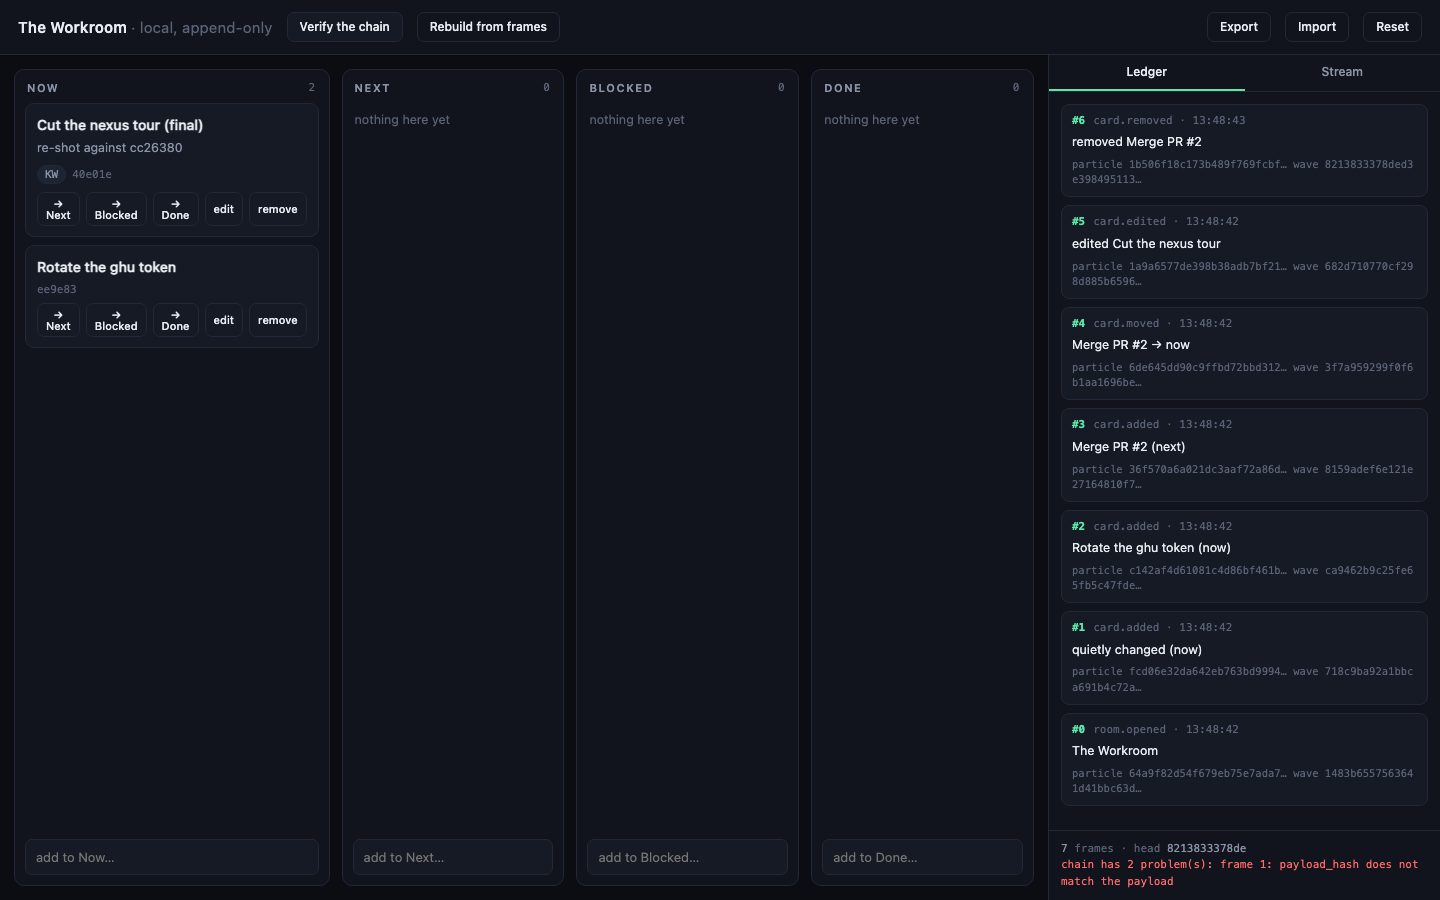
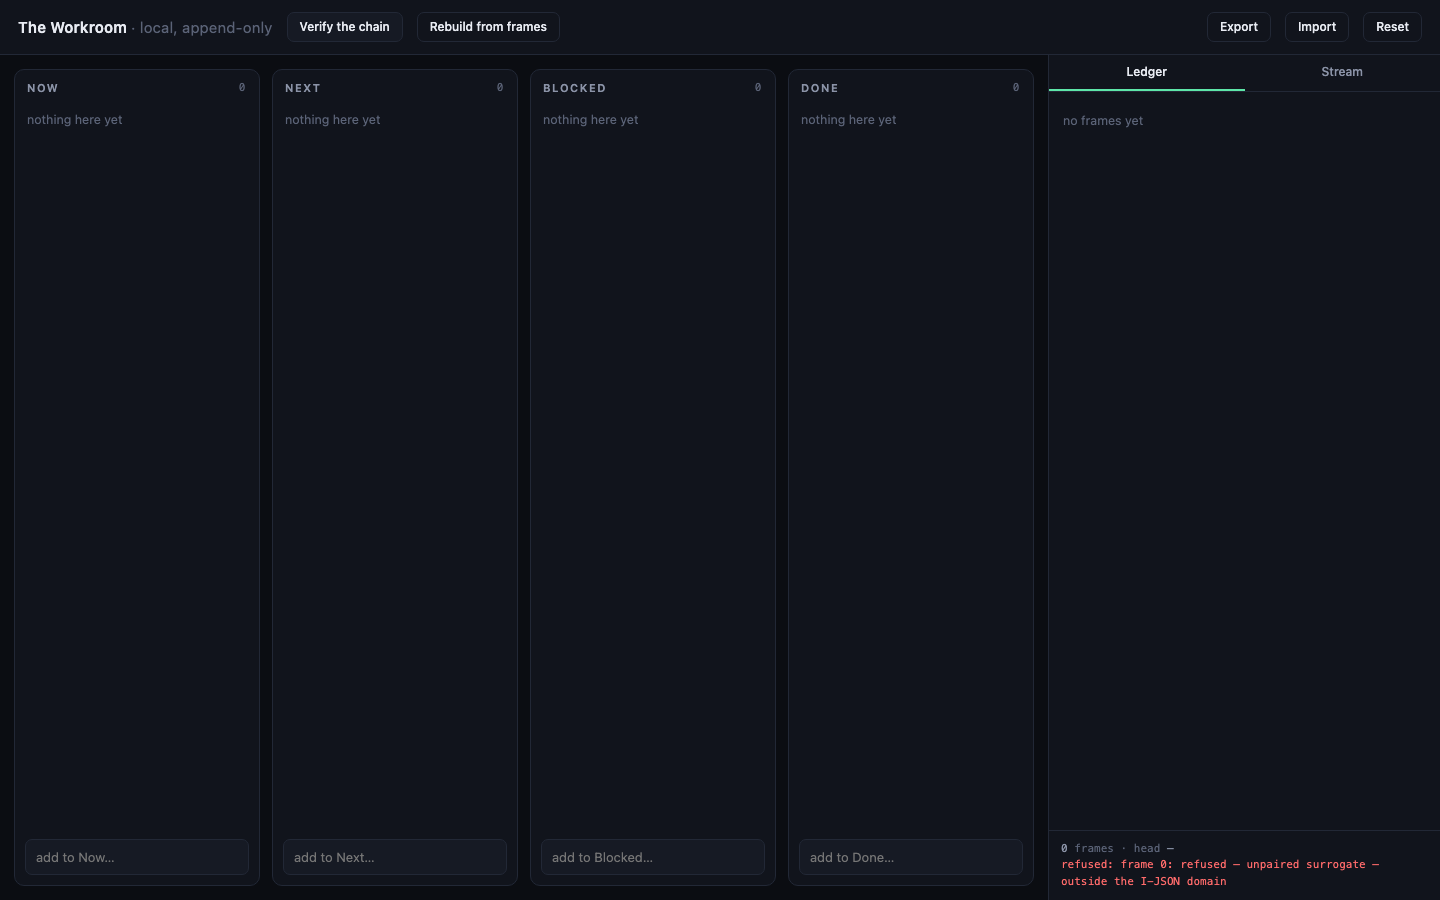
Stop the workroom certifying things it had not checked
Eight defects from an adversarial pass, all the same mistake: the app trusted
its own inputs and then reported success.

IMPORT assigned the pasted frames to the live globals BEFORE verifying, and
only restored them on one branch. Anything that made verification THROW — a
float in a payload, a null in the array — left the app running on the pasted
chain while the user's chain sat on disk, and the next ordinary edit wrote over
it. Import now verifies and replays a CANDIDATE; nothing is touched until it
passes.

A FAILED WRITE was swallowed. save() set a status the caller overwrote in the
same microtask, so a full quota or a private window dropped every frame while
the board kept going and Verify still said "all verified" over an in-memory
chain that was not on disk. save() reports now, append() rolls the frame back
rather than keeping one that did not persist, and the warning is sticky. Verify
compares against what is actually stored.

verifyChain THREW on exactly the chains most worth reporting on, so a corrupted
record displayed as a clean one. It never throws now, and it does the 7.5 step-1
checks it had skipped: payload is an object, kind is the registered one, utc is
a real date and not merely regex-shaped, sig is null, seq is a uint53, and every
frame belongs to the one stream it is filed under.

canonical() escaped unpaired surrogates instead of refusing them (section 4), so
a frame could verify here and nowhere else — the reference implementation emits
[…]

diff --git a/index.html b/index.html
@@ -162,15 +162,33 @@ function canonical(v) {
     if (!Number.isSafeInteger(v)) throw new Error('int outside the interoperable range; carry it as a string');
     return JSON.stringify(v);
   }
-  if (typeof v === 'string') return JSON.stringify(v);
+  if (typeof v === 'string') return wellFormed(v);
   if (Array.isArray(v)) return '[' + v.map(canonical).join(',') + ']';
   if (typeof v === 'object') {
     // RFC 8785 orders member names by UTF-16 code units, which is exactly what
     // JavaScript's default string sort does — the one place JS gets JCS for free.
     const keys = Object.keys(v).sort();
-    return '{' + keys.map(k => JSON.stringify(k) + ':' + canonical(v[k])).join(',') + '}';
+    return '{' + keys.map(k => wellFormed(k) + ':' + canonical(v[k])).join(',') + '}';
   }
   throw new Error('non-I-JSON value: ' + typeof v);
+}
+// §4 refuses an unpaired surrogate rather than repairing it. JS would happily
+// escape a lone \uD800 and hash the result, but the reference implementation
+// emits the raw character — so the two would disagree on a string no human
+// typed and the frame would be unverifiable anywhere else. Refusing is the only
+// answer that keeps the hash meaningful.
+function wellFormed(s) {
+  for (let i = 0; i < s.length; i++) {
+    const c = s.charCodeAt(i);
+    if (c >= 0xD800 && c <= 0xDBFF) {
+      const n = s.charCodeAt(i + 1);
+      if (!(n >= 0xDC00 && n <= 0xDFFF)) throw new Error('unpaired surrogate — outside the I-JSON domain');
+      i++;
+    } else if (c >= 0xDC00 && c <= 0xDFFF) {
+      throw new Error('unpaired surrogate — outside the I-JSON domain');
+    }
+  }
+  return JSON.stringify(s);
 }
 
 /* ── §5 domain-separated content addressing ──────────────────────────────── */
@@ -229,8 +247,11 @@ let selected = null;
 
 const $ = id => document.getElementById(id);
 const load = k => { try { return JSON.parse(localStorage.getItem(k) || 'null'); } catch (e) { return null; } };
-const save = (k, v) => { try { localStorage.setItem(k, JSON.stringify(v)); } catch (e) {
-  setStatus('could not write to localStorage — the chain is not being saved', 'bad'); } };
+// Returns whether the write actually landed. It used to swallow the failure and
+// set a status line that the caller overwrote in the same microtask, so a full
+// quota or a private window silently dropped every frame while the app went on
+// reporting "verified" over an in-memory chain that was not on disk.
+const save = (k, v) => { try { localStorage.setItem(k, JSON.stringify(v)); return true; } catch (e) { return false; } };
 
 /* ── the projection: the board is replayed, never edited in place ────────── */
 function project(list) {
@@ -240,11 +261,15 @@ function project(list) {
     const p = f.payload, id = p.card;
     switch (p.event) {
       case 'card.added':
+        // a lane outside the four would throw here and, once the frames were on
+        // disk, would throw again on every load — a board bricked by one import
+        if (!b.order[p.lane]) break;
         b.cards[id] = { id, title: p.title, note: p.note || '', who: p.who || '', lane: p.lane };
         b.order[p.lane].push(id);
         break;
       case 'card.moved': {
         const c = b.cards[id]; if (!c) break;
+        if (!b.order[p.lane]) break;
         b.order[c.lane] = b.order[c.lane].filter(x => x !== id);
         c.lane = p.lane;
         const to = b.order[p.lane];
@@ -275,35 +300,80 @@ async function append(payload) {
   const prevFrame = frames[frames.length - 1] || null;
   const f = await buildFrame(streamId, frames.length, payload, prevFrame ? prevFrame.payload_hash : null);
   frames.push(f);
-  save(LS.frames, frames);
+  if (!save(LS.frames, frames)) {
+    // The frame did not reach disk. Keeping it in memory would chain every later
+    // frame onto a predecessor that does not exist, and the whole tail would
+    // vanish on reload while the app said it was fine. Refuse the change instead.
+    frames.pop();
+    stick('the chain could not be written to storage — that change was refused, not saved. '
+        + 'Export now: this browser is out of room, or site data is blocked here.');
+    render();
+    return null;
+  }
   board = project(frames);
   render();
   return f;
 }
 
 /* ── verification (§7.5, the parts a local reader can check) ─────────────── */
-async function verifyChain() {
-  const problems = [];
-  let prev = null;
-  for (let i = 0; i < frames.length; i++) {
-    const f = frames[i];
-    const keys = Object.keys(f).sort().join(',');
-    const want = ['frame_hash','kind','payload','payload_hash','prev','prev_wave','seq','sig','spec','stream_id','utc'].join(',');
-    if (keys !== want) { problems.push(`frame ${i}: key set is not the eleven`); continue; }
-    if (f.spec !== SPEC) problems.push(`frame ${i}: spec is not ${SPEC}`);
-    if (f.seq !== i) problems.push(`frame ${i}: seq is ${f.seq}, expected ${i}`);
-    if (!/^\d{4}-\d{2}-\d{2}T\d{2}:\d{2}:\d{2}\.\d{3}Z$/.test(f.utc)) problems.push(`frame ${i}: utc is not the fixed 24-byte form`);
-    if (f.prev_wave !== null) problems.push(`frame ${i}: prev_wave must be null on a memory stream`);
-    if (i === 0 && f.prev !== null) problems.push('genesis: prev must be null');
-    if (i > 0 && f.prev !== prev.payload_hash) problems.push(`frame ${i}: prev does not link to frame ${i - 1}`);
+// Takes the frames it is asked about rather than reading a global, and NEVER
+// throws: a chain that cannot be canonicalized is exactly the chain a verifier
+// most needs to report on, and an escaping rejection used to leave the app
+// showing a clean status bar over an unverifiable record.
+const KEYS_11 = ['frame_hash','kind','payload','payload_hash','prev','prev_wave','seq','sig','spec','stream_id','utc'].join(',');
+const LANE_IDS = LANES.map(l => l.id);
 
-    const ph = await H('rapp/1:particle', f.payload);
-    if (ph !== f.payload_hash) problems.push(`frame ${i}: payload_hash does not match the payload`);
-    const pre = { ...f }; delete pre.frame_hash; delete pre.sig;
-    const fh = await H('rapp/1:wave', pre);
-    if (fh !== f.frame_hash) problems.push(`frame ${i}: frame_hash does not match the frame`);
-    prev = f;
+function utcIsReal(u) {
+  if (!/^\d{4}-\d{2}-\d{2}T\d{2}:\d{2}:\d{2}\.\d{3}Z$/.test(u)) return false;
+  const d = new Date(u);                       // catches 2026-02-31 and friends
+  return !isNaN(d.getTime()) && d.toISOString().replace(/\.(\d{3})\d*Z$/, '.$1Z') === u;
+}
+function isPlainObject(v) {
+  return v !== null && typeof v === 'object' && !Array.isArray(v);
+}
+
+async function verifyChain(list, expectStream) {
+  const problems = [];
+  const seen = new Set();
+  let prev = null;
+  if (!Array.isArray(list)) return ['that is not a chain'];
+  for (let i = 0; i < list.length; i++) {
+    const f = list[i];
+    try {
+      if (!isPlainObject(f)) { problems.push(`frame ${i}: not an object`); continue; }
+      if (Object.keys(f).sort().join(',') !== KEYS_11) { problems.push(`frame ${i}: key set is not the eleven`); continue; }
+      if (f.spec !== SPEC) problems.push(`frame ${i}: spec is not ${SPEC}`);
+      if (f.kind !== KIND) problems.push(`frame ${i}: kind is ${JSON.stringify(f.kind)}, not the registered ${KIND}`);
+      if (typeof f.stream_id !== 'string' || !f.stream_id) problems.push(`frame ${i}: stream_id is not a string`);
+      if (!isPlainObject(f.payload)) problems.push(`frame ${i}: payload must be a JSON object`);
+      if (!Number.isSafeInteger(f.seq) || f.seq < 0) problems.push(`frame ${i}: seq is not a uint53`);
+      else if (f.seq !== i) problems.push(`frame ${i}: seq is ${f.seq}, expected ${i}`);
+      if (!utcIsReal(f.utc)) problems.push(`frame ${i}: utc is not a real time in the fixed 24-byte form`);
+      if (f.sig !== null) problems.push(`frame ${i}: sig must be null — this app does not sign`);
+      if (f.prev_wave !== null) problems.push(`frame ${i}: prev_wave must be null on a memory stream`);
+      if (i === 0 && f.prev !== null) problems.push('genesis: prev must be null');
+      if (i > 0 && prev && f.prev !== prev.payload_hash) problems.push(`frame ${i}: prev does not link to frame ${i - 1}`);
+
+      // every frame must belong to ONE stream, and to the stream it is filed under
+      seen.add(f.stream_id);
+      if (expectStream && f.stream_id !== expectStream) problems.push(`frame ${i}: belongs to a different stream`);
+
+      // a payload the board cannot replay is a payload that will brick the board
+      const p = f.payload;
+      if (isPlainObject(p) && (p.event === 'card.added' || p.event === 'card.moved')
+          && !LANE_IDS.includes(p.lane)) problems.push(`frame ${i}: names a lane that does not exist`);
+
+      const ph = await H('rapp/1:particle', f.payload);
+      if (ph !== f.payload_hash) problems.push(`frame ${i}: payload_hash does not match the payload`);
+      const pre = { ...f }; delete pre.frame_hash; delete pre.sig;
+      const fh = await H('rapp/1:wave', pre);
+      if (fh !== f.frame_hash) problems.push(`frame ${i}: frame_hash does not match the frame`);
+      prev = f;
+    } catch (e) {
+      problems.push(`frame ${i}: refused — ${e.message}`);
+    }
   }
+  if (seen.size > 1) problems.push(`the frames come from ${seen.size} different streams`);
   return problems;
 }
 
@@ -435,7 +505,11 @@ function renderAbout() {
   p.append(note, kv);
 }
 
-let statusMsg = null, statusCls = '';
+let statusMsg = null, statusCls = '', sticky = null;
+// Some failures must not be overwritable by the next cheerful "added". A sticky
+// message stays until the condition that caused it is gone.
+function stick(msg) { sticky = msg; render(); }
+function unstick() { sticky = null; }
 function setStatus(msg, cls) {
   if (msg !== undefined) { statusMsg = msg; statusCls = cls || ''; }
   const head = frames[frames.length - 1];
@@ -446,6 +520,10 @@ function setStatus(msg, cls) {
   el.append(a);
   if (statusMsg) {
     const s = document.createElement('div'); s.className = statusCls; s.textContent = statusMsg;
+    el.append(s);
+  }
+  if (sticky) {
+    const s = document.createElement('div'); s.className = 'bad'; s.textContent = sticky;
     el.append(s);
   }
 }
@@ -498,20 +576,31 @@ $('import').onclick = () => {
   const t = showIO('Import', 'Paste an exported stream. It is verified before it replaces anything.', '', true);
   $('io-ok').textContent = 'Import';
   $('io-ok').onclick = async () => {
+    // Everything below works on a CANDIDATE. The live chain is not touched until
+    // the candidate has verified AND replayed — the previous version assigned the
+    // globals first and only restored them on one branch, so anything that made
+    // verification THROW left the app running on the pasted chain, and the next
+    // ordinary edit wrote it over the user's record.
     let data;
     try { data = JSON.parse(t.value); } catch (e) { setStatus('that is not JSON', 'bad'); return; }
-    if (!data || !Array.isArray(data.frames) || !data.stream_id) { setStatus('no stream in there', 'bad'); return; }
-    const keepF = frames, keepS = streamId;
-    frames = data.frames; streamId = data.stream_id;
-    const problems = await verifyChain();
-    if (problems.length) {
-      frames = keepF; streamId = keepS;
-      setStatus('refused: ' + problems[0], 'bad');
-      $('io').close(); $('io-ok').textContent = 'Close'; $('io-ok').onclick = () => $('io').close();
-      render(); return;
+    if (!isPlainObject(data) || !Array.isArray(data.frames) || typeof data.stream_id !== 'string' || !data.stream_id) {
+      setStatus('no stream in there', 'bad'); return;
     }
-    save(LS.frames, frames); save(LS.stream, streamId);
-    board = project(frames);
+    let problems;
+    try { problems = await verifyChain(data.frames, data.stream_id); }
+    catch (e) { problems = ['could not be verified: ' + e.message]; }
+    if (problems.length) { setStatus('refused: ' + problems[0], 'bad'); return; }
+
+    let nextBoard;
+    try { nextBoard = project(data.frames); }
+    catch (e) { setStatus('refused: those frames cannot be replayed — ' + e.message, 'bad'); return; }
+
+    // verified and replayable; only now does anything change
+    if (!save(LS.frames, data.frames) || !save(LS.stream, data.stream_id)) {
+      setStatus('refused: could not write it to storage, so nothing was changed', 'bad'); return;
+    }
+    frames = data.frames; streamId = data.stream_id; board = nextBoard;
+    unstick();
     $('io').close(); $('io-ok').textContent = 'Close'; $('io-ok').onclick = () => $('io').close();
     render(); setStatus(`imported ${frames.length} frames, all verified`, 'ok');
   };
@@ -519,19 +608,23 @@ $('import').onclick = () => {
 $('reset').onclick = async () => {
   if (!confirm('Start a new stream? Export first if you want to keep this one.')) return;
   localStorage.removeItem(LS.frames); localStorage.removeItem(LS.stream);
-  frames = []; streamId = await mintStream(); save(LS.stream, streamId);
-  await append({ event: 'room.opened', title: 'The Workroom' });
-  setStatus('new stream minted', 'ok');
+  frames = []; streamId = await mintStream();
+  if (!save(LS.stream, streamId)) { stick('storage is not writable here — a new stream cannot be kept'); return; }
+  unstick();
+  if (await append({ event: 'room.opened', title: 'The Workroom' })) setStatus('new stream minted', 'ok');
 };
 
 $('verify').onclick = async () => {
   setStatus('verifying…');
-  const problems = await verifyChain();
-  if (!problems.length) {
-    setStatus(`all ${frames.length} frames verified — every hash recomputed, every link followed`, 'ok');
-  } else {
-    setStatus(`${problems.length} problem(s): ${problems[0]}`, 'bad');
-  }
+  const problems = await verifyChain(frames, streamId);
+  // ...and the record is what is on DISK. Verifying only the in-memory array is
+  // how the app used to certify frames that had never been written.
+  const onDisk = load(LS.frames) || [];
+  const same = JSON.stringify(onDisk) === JSON.stringify(frames);
+  if (problems.length) setStatus(`${problems.length} problem(s): ${problems[0]}`, 'bad');
+  else if (!same) setStatus(`the ${frames.length} frames here verify, but storage holds ${onDisk.length} — `
+                          + 'this browser is not saving them. Export now.', 'bad');
+  else setStatus(`all ${frames.length} frames verified — every hash recomputed, every link followed, and they are on disk`, 'ok');
 };
 $('rebuild').onclick = () => {
   board = { cards: {}, order: {} };
@@ -556,7 +649,9 @@ $('tab-about').onclick = () => {
   if (!frames.length) await append({ event: 'room.opened', title: 'The Workroom' });
   board = project(frames);
   render();
-  const problems = await verifyChain();
+  let problems;
+  try { problems = await verifyChain(frames, streamId); }
+  catch (e) { problems = ['could not be verified: ' + e.message]; }
   setStatus(problems.length ? `chain has ${problems.length} problem(s): ${problems[0]}`
                             : `${frames.length} frames, verified on load`,
             problems.length ? 'bad' : 'ok');

diff --git a/README.md b/README.md
@@ -42,10 +42,18 @@ Conformance, SPEC.md rev-6:
 node drive.mjs        # needs playwright; node_modules is symlinked from ~/nexus-tour
 ```
 
-drives a real browser: adds work, moves it, edits it, removes it, verifies the
-chain, rebuilds the board from the frames, then **tampers with a stored frame
-and checks the app refuses it** — a ledger that cannot detect tampering is a
-log. `shot.png` is that last state: the ledger shows the altered frame and the
+drives a real browser through the whole flow and then through the failures that
+matter, because those are what a record has to survive:
+
+| | |
+|---|---|
+| tampering | a stored frame is altered — both hashes are reported |
+| a dead store | `setItem` throws; the change is **refused**, not kept in memory and lost on reload, and the warning is sticky |
+| a poison import | frames that cannot be canonicalized at all — the live chain is untouched and the next edit is still yours |
+| an unpaired surrogate | outside the I-JSON domain (§4), refused rather than escaped into a hash the reference cannot reproduce |
+| a lane that does not exist | refused at import instead of bricking the board on every future load |
+
+`shot.png` is the tampered state: the ledger shows the altered frame and the
 status bar names it.
 
 ## Import / export
